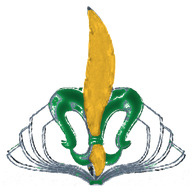
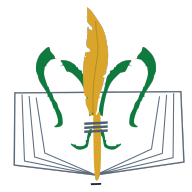
Redesign emblem: clean vector redraw traced from official pin and print

Changed region(s): [[0.0312, 0.0312, 0.9688, 0.9688]]

diff --git a/index.html b/index.html
@@ -4,9 +4,9 @@
 <meta charset="UTF-8">
 <meta name="viewport" content="width=device-width, initial-scale=1">
 <title>Etrog LV Tama - מחזור ל״ו</title>
-<link rel="icon" type="image/png" sizes="32x32" href="favicon-32.png?v=6">
-<link rel="icon" type="image/png" sizes="192x192" href="icon-192.png?v=6">
-<link rel="apple-touch-icon" href="apple-touch-icon.png?v=6">
+<link rel="icon" type="image/png" sizes="32x32" href="favicon-32.png?v=7">
+<link rel="icon" type="image/png" sizes="192x192" href="icon-192.png?v=7">
+<link rel="apple-touch-icon" href="apple-touch-icon.png?v=7">
 <style>
 body { font-family: system-ui, sans-serif; background: linear-gradient(135deg,#f5f7fa,#e8ecf3); min-height: 100vh; margin: 0; display: flex; align-items: center; justify-content: center; }
 .card { background: #fff; border-radius: 20px; padding: 32px 32px 40px; box-shadow: 0 8px 30px rgba(0,0,0,.08); text-align: center; max-width: 420px; margin: 16px; }
@@ -24,7 +24,7 @@ a { display: block; margin: 10px 0; background: #7c3aed; color: #fff; text-decor
 </head>
 <body>
 <div class="card">
-<span class="badge"><img src="logo.png?v=6" alt="סמל קורס אתרוג ל״ו"></span>
+<span class="badge"><img src="logo.png?v=7" alt="סמל קורס אתרוג ל״ו"></span>
 <h2 class="course">קורס אתרוג מגמת תמ״א</h2>
 <h1>מחזור ל״ו</h1>
 <p>אתרי המגמה</p>
